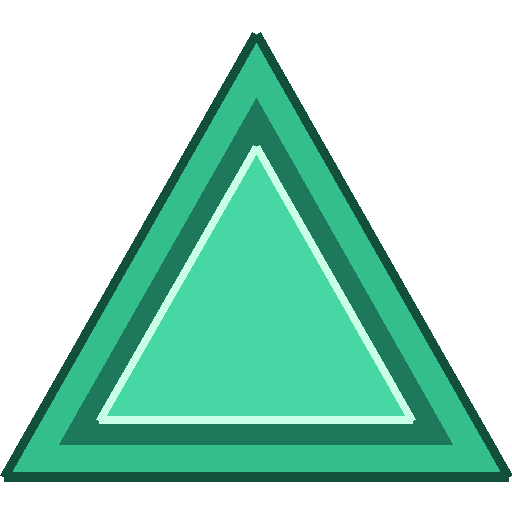
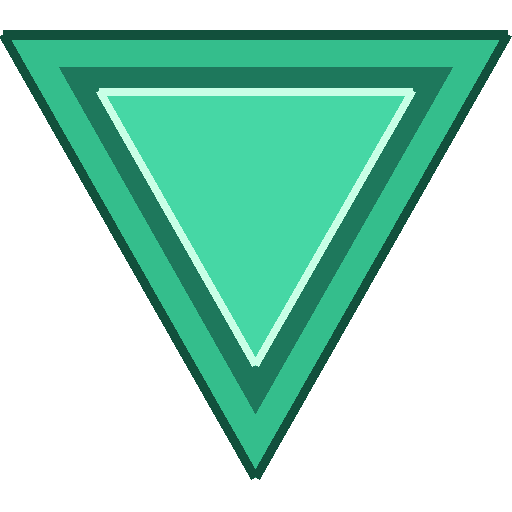
Update translated Trinity Counter and English Reserve Card

diff --git a/tools/build_tts_save.py b/tools/build_tts_save.py
@@ -174,15 +174,12 @@ def create_battle_components(start_idx):
     """Reserve x3, Wall card x3, basic colour cards 4 x 16, and the Trinity Counter bag.
     Global.lua moves them to their rulebook positions (p.26-27) on first load."""
     objs, idx = [], start_idx
+    # Reserve uses an English version of the card art, so no hover tooltip is needed.
     for i, c in enumerate(("Red", "Green", "Blue")):
-        o, idx = create_component(f"Reserve ({c})", f"reserve_{c}", COMPONENT_BASE + "reserve_card.jpg", 1, -6 + 3 * i, -3, 0, idx)
-        o["Description"] = ("Activate <Trinity Charge> [Turn 1] Pay 3 colour > Trinity Counter +1\n"
-                            "Activate <Trinity Draw> Remove 3 of your Trinity Counters > Draw 1 card.\n"
-                            "Trinity Counter MAX: 10")
+        o, idx = create_component(f"Reserve ({c})", f"reserve_{c}", COMPONENT_BASE + "reserve_card_en.jpg", 1, -6 + 3 * i, -3, 0, idx)
         objs.append(o)
     for a, b in (("Red", "Green"), ("Green", "Blue"), ("Blue", "Red")):
         o, idx = create_component(f"Wall ({a}-{b})", f"wallcard_{a}_{b}", COMPONENT_BASE + "wall_card.jpg", 1, 0, 3, 0, idx)
-        o["Description"] = "4 squares between two players. Damage pushes the wall 1 square towards the defender."
         objs.append(o)
     for i, col in enumerate(("Red", "Yellow", "Purple", "Blue")):
         o, idx = create_component(f"Basic Colour: {col}", f"colordeck_{col}", COMPONENT_BASE + f"color_{col.lower()}.jpg",
@@ -190,7 +187,6 @@ def create_battle_components(start_idx):
         objs.append(o)
     objs.append({
         "Name": "Bag", "Nickname": "Trinity Counters", "GMNotes": "counter_bag",
-        "Description": "30 Trinity Counters. Global.lua fills this bag on first load.",
         "Transform": {"posX": 0, "posY": 2, "posZ": 9, "rotX": 0, "rotY": 0, "rotZ": 0,
                       "scaleX": 0.7, "scaleY": 0.7, "scaleZ": 0.7},
         "ColorDiffuse": {"r": 0.15, "g": 0.55, "b": 0.42},
